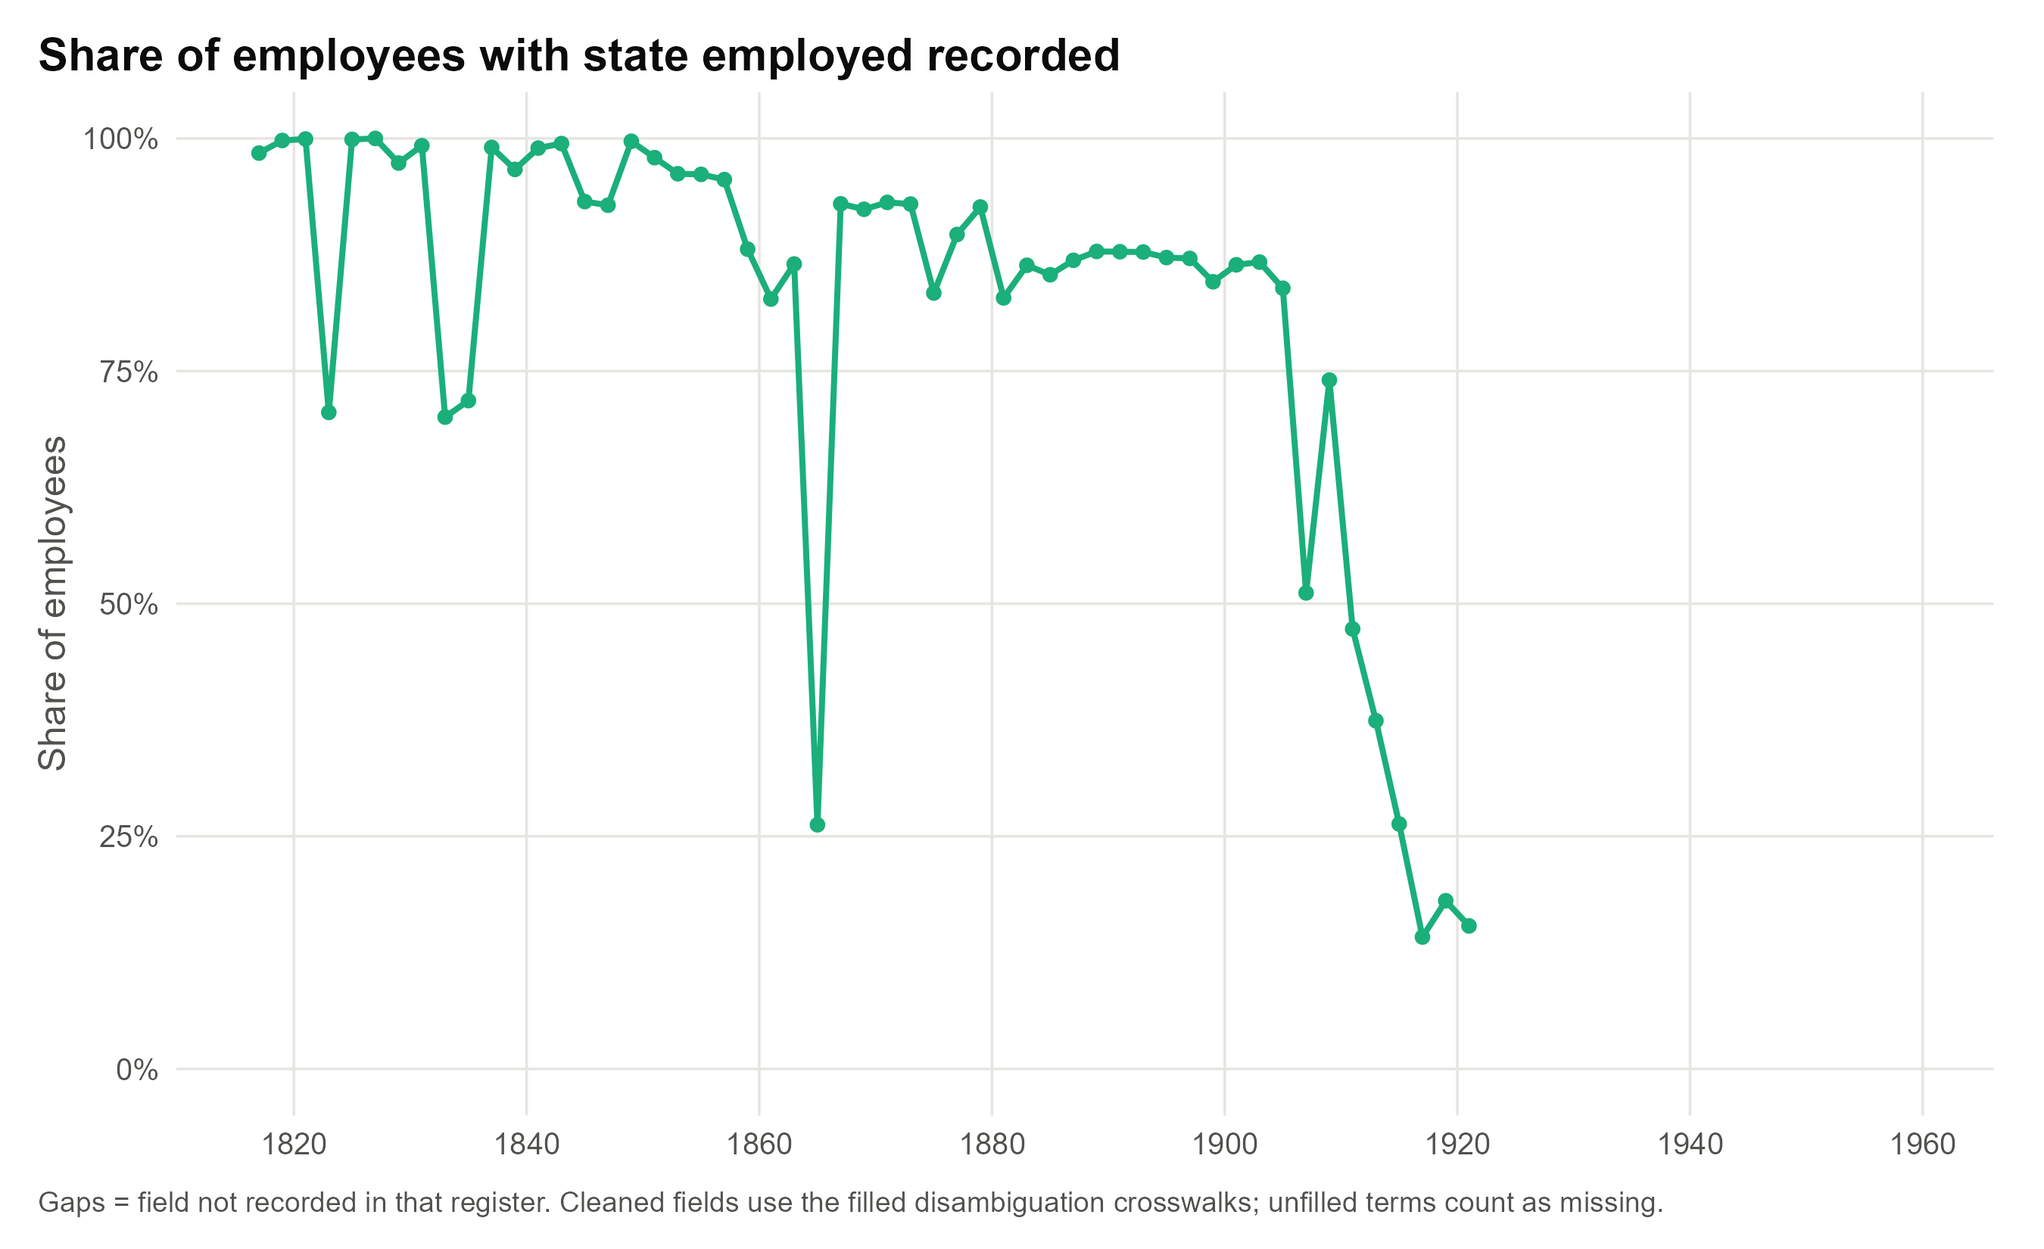
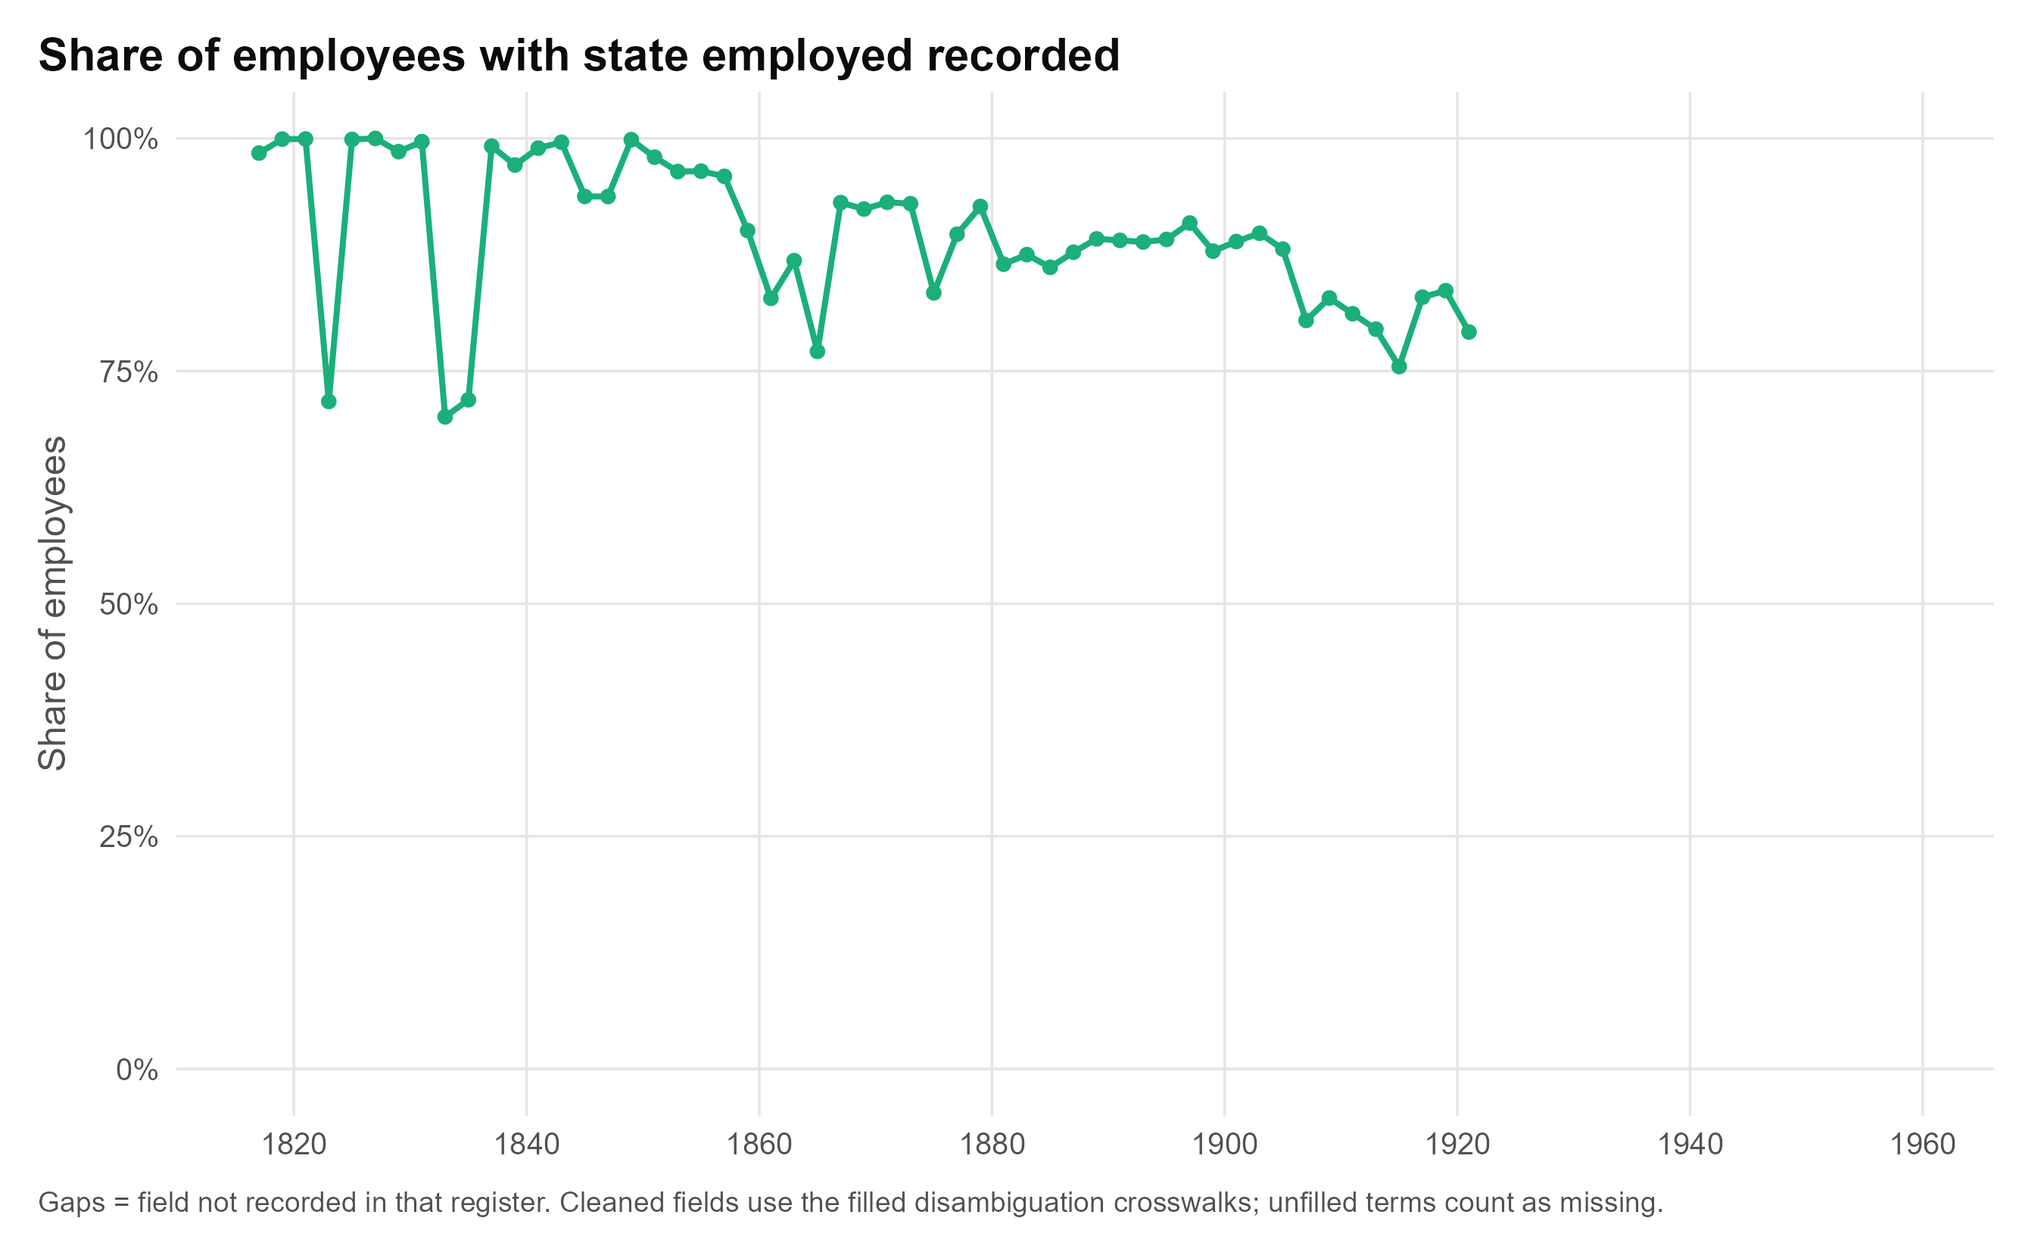
Update Individual phase: city-to-state crosswalk, pay-type and DC/War-Navy changes, new figures and heatmap

diff --git a/individual.html b/individual.html
@@ -44,7 +44,7 @@
     <div class="container">
         <section>
             <h2>Individual<span class="status-badge">In progress</span></h2>
-            <p>This phase turns the yearly Official Registers of the United States (1817&ndash;1959) into a single standardized file with one row per person-year. It harmonizes column headers across eras and cleans the fields that the registers abbreviate inconsistently: position, birth state, appointing state, employing state and congressional district. It also converts stated pay into a yearly figure. Abbreviations are resolved through crosswalks, which are filled from earlier hand codings, then by Claude, and checked against human coders. The scripts run in order, and each step reads the previous step&rsquo;s output.</p>
+            <p>This phase turns the yearly Official Registers of the United States (1817&ndash;1959) into a single standardized file with one row per person-year. It harmonizes column headers across eras and cleans the fields that the registers abbreviate inconsistently: position, birth state, appointing state, employing state (including filling it from the city where the register gives only a city) and congressional district. It also converts stated pay into a yearly figure. Abbreviations are resolved through crosswalks, which are filled from earlier hand codings, then by Claude, and checked against human coders. The scripts run in order, and each step reads the previous step&rsquo;s output.</p>
             <div class="btn-row" style="justify-content:center;">
                 <a class="btn" href="https://uchicago.box.com/s/r2gqoev8bho623cby2e0e7or6xvlfs0m" id="download-output" target="_blank" rel="noopener">Download final output (CSV)</a>
                 <a class="btn btn-outline" href="https://uchicago.box.com/s/t08v5jko8fby1tqbpaw12pawzwdkgsf3" id="download-folder" target="_blank" rel="noopener">Download full folder</a>
@@ -57,17 +57,17 @@
             <ol>
                 <li><strong>Bind all registers</strong> Reads the 73 yearly Official Register spreadsheets (1817&ndash;1959), standardizes their column headers across the three header eras, and binds them into one file. Exact repeats, and rows that differ only in where the person worked, are collapsed into one row, with <code>n_collapsed</code> recording how many original rows each stands for. Output: <code>all_registers_1817_1959.csv</code>.</li>
 
-                <li><strong>Generate empty crosswalks</strong> The registers abbreviate and spell the same thing in many ways, so the raw <code>position</code>, <code>cong_district</code> and the three state fields (<code>state_born</code>, <code>state_appointed</code>, <code>state_employed</code>) are turned into crosswalks: one row per unique raw string, most frequent first, with an empty <code>_clean</code> column. Positions are only abbreviated in 1907&ndash;1921, so that crosswalk has one row per term <em>and year</em>; the three state fields share one crosswalk.</li>
+                <li><strong>Generate empty crosswalks</strong> The registers abbreviate and spell the same thing in many ways, so the raw <code>position</code>, <code>cong_district</code> and the three state fields (<code>state_born</code>, <code>state_appointed</code>, <code>state_employed</code>) are turned into crosswalks: one row per unique raw string, most frequent first, with an empty <code>_clean</code> column. Positions are only abbreviated in 1907&ndash;1921, so that crosswalk has one row per term <em>and year</em>; the three state fields share one crosswalk. A fifth crosswalk maps <code>city_employed</code> to a work state for rows that list a city but no state (for example 6,575 rows in 1865). Each city carries context columns (departments, offices, and the states people there were appointed from or born in) to help resolve ambiguous names such as Springfield or Portland. Filled crosswalks are saved as separate <code>_filled.csv</code> files, and regenerating the blank ones never overwrites them.</li>
 
                 <li><strong>Fill crosswalks from hand codings</strong> Many of the abbreviated and otherwise unstandardized entries were decoded by Kevin Angell. His entries, which cover all of the most common position titles and locations, are added to the empty crosswalks.</li>
 
-                <li><strong>Test Claude crosswalk generation</strong> Before using Claude to fill the remaining entries, we test it against human coders. The script draws random samples of still-unfilled entries (50 states, 50 districts, 150 positions). Then, Jon Rogowski and Lucas Cain filled these samples, and their results are compared to Claude (Sonnet 5.5, medium). The script reads back each coder&rsquo;s filled sample, and computes inter-coder agreement (pairwise agreement, Cohen&rsquo;s &kappa;, and Krippendorff&rsquo;s &alpha;). Disagreements are hand-marked as substantive or trivial, and agreement is reported both ways. The high agreement rates, and plausible entries by the LLM in cases of disagreement, justify step 5.</li>
+                <li><strong>Test Claude crosswalk generation</strong> Before using Claude to fill the remaining entries, we test it against human coders. The script draws random samples of still-unfilled entries (50 states, 50 districts, 150 positions, 50 cities). Then, Jon Rogowski and Lucas Cain filled these samples, and their results are compared to Claude (Sonnet 5.5, medium). For the city sample only Lucas Cain and Claude are compared, as Jon did not fill it. The script reads back each coder&rsquo;s filled sample, and computes inter-coder agreement (pairwise agreement, Cohen&rsquo;s &kappa;, and Krippendorff&rsquo;s &alpha;). Disagreements are hand-marked as substantive or trivial, and agreement is reported both ways. The high agreement rates, and plausible entries by the LLM in cases of disagreement, justify step 5.</li>
 
-                <li><strong>Fill crosswalks (Claude)</strong> The prompt used to have Claude fill the remaining blank crosswalk entries: districts and states first, then positions in batches. Each entry is checked individually against the printed abbreviation lists in <code>Input/c. Abbreviations</code>, and uncertain entries are left blank for human review. Existing answers are never overwritten.</li>
+                <li><strong>Fill crosswalks (Claude)</strong> The prompt used to have Claude fill the remaining blank crosswalk entries: districts and states first, then positions in batches, then the city-to-state crosswalk (every city individually, with a confidence rating and a REVIEW flag on uncertain fills). Each entry is checked individually against the printed abbreviation lists in <code>Input/c. Abbreviations</code>, and uncertain entries are left blank for human review. Existing answers are never overwritten.</li>
 
-                <li><strong>Apply crosswalks and additional cleaning</strong> Applies the filled crosswalks to the master register to produce standardized state, district and position fields. Also corrects the shifted &ldquo;D C D C D C&rdquo; entries in the compact registers, blanks the 1881&ndash;1891 district column (which holds field-service headings, not congressional districts), and converts pay strings into a comparable yearly figure. Output: <code>all_registers_1817_1959_clean.csv</code>, which completes Phase 1.</li>
+                <li><strong>Apply crosswalks and additional cleaning</strong> Applies the filled crosswalks to the master register to produce standardized state, district and position fields. Where a row has a city but no raw state, the work state is filled from the city crosswalk, and a new flag <code>state_employed_from_city</code> marks those rows (raw columns are left as transcribed). A few misspellings in the hand fill (&ldquo;Phillipines&rdquo;, &ldquo;Kanas&rdquo;, &ldquo;Inidana&rdquo;) and a Pittsburg slip are corrected. Also corrects the shifted &ldquo;D C D C D C&rdquo; entries in the compact registers, blanks the 1881&ndash;1891 district column (which holds field-service headings, not congressional districts), and converts pay strings into a comparable yearly figure. Output: <code>all_registers_1817_1959_clean.csv</code>, which completes Phase 1.</li>
 
-                <li><strong>Descriptive</strong> Tabulates and plots coverage by year for each cleaned field, birthplace patterns, compensation in nominal and real dollars (using the Officer&ndash;Williamson price and wage series), and employment geography. Tables and figures are written to <code>Output/Tables</code> and <code>Output/Figures</code>.</li>
+                <li><strong>Descriptive</strong> Tabulates and plots coverage by year for each cleaned field, birthplace patterns, compensation in nominal and real dollars (using the Officer&ndash;Williamson price and wage series), and employment geography (including Washington, DC vs. elsewhere excluding the War and Navy departments). Pay types now separate &ldquo;See footnote&rdquo; entries, and early military ranks with no printed figure, from &ldquo;No amount&rdquo;. Tables and figures are written to <code>Output/Tables</code> and <code>Output/Figures</code>.</li>
             </ol>
         </section>
 
@@ -78,11 +78,11 @@
 
         <section>
             <h3>Inter-coder reliability</h3>
-            <p>Output of script 4: three coders (two human, one LLM) filled random samples of crosswalk entries (50 states, 50 districts, 150 positions). Agreement is shown for all differences and for substantive differences only, where each disagreement was hand-marked as substantive or trivial.</p>
+            <p>Output of script 4: three coders (two human, one LLM) filled random samples of crosswalk entries (50 states, 50 districts, 150 positions, 50 cities; two coders for cities). Agreement is shown for all differences and for substantive differences only, where each disagreement was hand-marked as substantive or trivial.</p>
             <div class="btn-row"><a class="btn btn-outline" href="https://uchicago.box.com/s/o37bc6v30ftxk0f0gr4dj826tig9ookl" target="_blank" rel="noopener">Download inter-coder disagreements (spreadsheet)</a></div>
-            <table class="data-table"><caption>Krippendorff's &alpha; across the three coders, detailed coding</caption><thead><tr><th>Field</th><th>Items</th><th>Coders</th><th>&alpha; (all differences)</th><th>&alpha; (substantive differences only)</th></tr></thead><tbody><tr><td>Congressional district</td><td>50</td><td>3</td><td>0.847</td><td>0.961</td></tr><tr><td>Position</td><td>150</td><td>3</td><td>0.621</td><td>0.897</td></tr><tr><td>State</td><td>50</td><td>3</td><td>0.574</td><td>0.682</td></tr></tbody></table>
-            <table class="data-table"><caption>Pairwise agreement, detailed coding</caption><thead><tr><th>Field</th><th>Coders</th><th>Pair type</th><th>Items compared</th><th>% agree</th><th>Cohen&rsquo;s &kappa;</th></tr></thead><tbody><tr><td>Congressional district</td><td>Claude &ndash; Jon</td><td>human-LLM</td><td>39</td><td>87.2</td><td>0.868</td></tr><tr><td>Congressional district</td><td>Claude &ndash; Luke</td><td>human-LLM</td><td>46</td><td>82.6</td><td>0.822</td></tr><tr><td>Congressional district</td><td>Jon &ndash; Luke</td><td>human-human</td><td>40</td><td>85</td><td>0.846</td></tr><tr><td>Position</td><td>Claude &ndash; Jon</td><td>human-LLM</td><td>137</td><td>60.6</td><td>0.604</td></tr><tr><td>Position</td><td>Claude &ndash; Luke</td><td>human-LLM</td><td>141</td><td>66.7</td><td>0.665</td></tr><tr><td>Position</td><td>Jon &ndash; Luke</td><td>human-human</td><td>135</td><td>61.5</td><td>0.613</td></tr><tr><td>State</td><td>Claude &ndash; Jon</td><td>human-LLM</td><td>26</td><td>61.5</td><td>0.603</td></tr><tr><td>State</td><td>Claude &ndash; Luke</td><td>human-LLM</td><td>30</td><td>56.7</td><td>0.556</td></tr><tr><td>State</td><td>Jon &ndash; Luke</td><td>human-human</td><td>32</td><td>62.5</td><td>0.615</td></tr></tbody></table>
-            <table class="data-table"><caption>Items each coder filled in (blank = uncertain or skipped)</caption><thead><tr><th>Field</th><th>Coder</th><th>Type</th><th>Items filled</th><th>% filled</th></tr></thead><tbody><tr><td>Congressional district</td><td>Claude</td><td>LLM</td><td>46 of 50</td><td>92</td></tr><tr><td>Congressional district</td><td>Jon</td><td>human</td><td>40 of 50</td><td>80</td></tr><tr><td>Congressional district</td><td>Luke</td><td>human</td><td>50 of 50</td><td>100</td></tr><tr><td>Position</td><td>Claude</td><td>LLM</td><td>146 of 150</td><td>97.3</td></tr><tr><td>Position</td><td>Jon</td><td>human</td><td>139 of 150</td><td>92.7</td></tr><tr><td>Position</td><td>Luke</td><td>human</td><td>142 of 150</td><td>94.7</td></tr><tr><td>State</td><td>Claude</td><td>LLM</td><td>31 of 50</td><td>62</td></tr><tr><td>State</td><td>Jon</td><td>human</td><td>32 of 50</td><td>64</td></tr><tr><td>State</td><td>Luke</td><td>human</td><td>38 of 50</td><td>76</td></tr></tbody></table>
+            <table class="data-table"><caption>Krippendorff's &alpha; across the three coders, detailed coding</caption><thead><tr><th>Field</th><th>Items</th><th>Coders</th><th>&alpha; (all differences)</th><th>&alpha; (substantive differences only)</th></tr></thead><tbody><tr><td>Congressional district</td><td>50</td><td>3</td><td>0.847</td><td>0.961</td></tr><tr><td>Position</td><td>150</td><td>3</td><td>0.621</td><td>0.897</td></tr><tr><td>State</td><td>50</td><td>3</td><td>0.574</td><td>0.682</td></tr><tr><td>City &rarr; work state</td><td>50</td><td>2</td><td>0.911</td><td>0.970</td></tr></tbody></table>
+            <table class="data-table"><caption>Pairwise agreement, detailed coding</caption><thead><tr><th>Field</th><th>Coders</th><th>Pair type</th><th>Items compared</th><th>% agree</th><th>Cohen&rsquo;s &kappa;</th></tr></thead><tbody><tr><td>Congressional district</td><td>Claude &ndash; Jon</td><td>human-LLM</td><td>39</td><td>87.2</td><td>0.868</td></tr><tr><td>Congressional district</td><td>Claude &ndash; Luke</td><td>human-LLM</td><td>46</td><td>82.6</td><td>0.822</td></tr><tr><td>Congressional district</td><td>Jon &ndash; Luke</td><td>human-human</td><td>40</td><td>85</td><td>0.846</td></tr><tr><td>Position</td><td>Claude &ndash; Jon</td><td>human-LLM</td><td>137</td><td>60.6</td><td>0.604</td></tr><tr><td>Position</td><td>Claude &ndash; Luke</td><td>human-LLM</td><td>141</td><td>66.7</td><td>0.665</td></tr><tr><td>Position</td><td>Jon &ndash; Luke</td><td>human-human</td><td>135</td><td>61.5</td><td>0.613</td></tr><tr><td>State</td><td>Claude &ndash; Jon</td><td>human-LLM</td><td>26</td><td>61.5</td><td>0.603</td></tr><tr><td>State</td><td>Claude &ndash; Luke</td><td>human-LLM</td><td>30</td><td>56.7</td><td>0.556</td></tr><tr><td>State</td><td>Jon &ndash; Luke</td><td>human-human</td><td>32</td><td>62.5</td><td>0.615</td></tr><tr><td>City &rarr; work state</td><td>Claude &ndash; Luke</td><td>human-LLM</td><td>35</td><td>91.4</td><td>0.910</td></tr></tbody></table>
+            <table class="data-table"><caption>Items each coder filled in (blank = uncertain or skipped)</caption><thead><tr><th>Field</th><th>Coder</th><th>Type</th><th>Items filled</th><th>% filled</th></tr></thead><tbody><tr><td>Congressional district</td><td>Claude</td><td>LLM</td><td>46 of 50</td><td>92</td></tr><tr><td>Congressional district</td><td>Jon</td><td>human</td><td>40 of 50</td><td>80</td></tr><tr><td>Congressional district</td><td>Luke</td><td>human</td><td>50 of 50</td><td>100</td></tr><tr><td>Position</td><td>Claude</td><td>LLM</td><td>146 of 150</td><td>97.3</td></tr><tr><td>Position</td><td>Jon</td><td>human</td><td>139 of 150</td><td>92.7</td></tr><tr><td>Position</td><td>Luke</td><td>human</td><td>142 of 150</td><td>94.7</td></tr><tr><td>State</td><td>Claude</td><td>LLM</td><td>31 of 50</td><td>62</td></tr><tr><td>State</td><td>Jon</td><td>human</td><td>32 of 50</td><td>64</td></tr><tr><td>State</td><td>Luke</td><td>human</td><td>38 of 50</td><td>76</td></tr><tr><td>City &rarr; work state</td><td>Claude</td><td>LLM</td><td>43 of 50</td><td>86</td></tr><tr><td>City &rarr; work state</td><td>Jon</td><td>human</td><td>0 of 50</td><td>0</td></tr><tr><td>City &rarr; work state</td><td>Luke</td><td>human</td><td>36 of 50</td><td>72</td></tr></tbody></table>
             <div class="figure-grid">
                 <figure><a href="images/individual/intercoder_agreement.png" target="_blank"><img src="images/individual/intercoder_agreement.png" alt="Pairwise inter-coder agreement" loading="lazy"></a><figcaption>Pairwise inter-coder agreement</figcaption></figure>
             </div>
@@ -94,6 +94,7 @@
 <h4>Coverage</h4>
             <div class="figure-grid">
                 <figure><a href="images/individual/employees_by_year.png" target="_blank"><img src="images/individual/employees_by_year.png" alt="Number of employees listed in each register" loading="lazy"></a><figcaption>Number of employees listed in each register</figcaption></figure>
+<figure><a href="images/individual/coverage_by_year.png" target="_blank"><img src="images/individual/coverage_by_year.png" alt="Share of employees with each field recorded" loading="lazy"></a><figcaption>Share of employees with each field recorded (all fields)</figcaption></figure>
 <figure><a href="images/individual/coverage_position_by_year.png" target="_blank"><img src="images/individual/coverage_position_by_year.png" alt="Position recorded" loading="lazy"></a><figcaption>Position recorded</figcaption></figure>
                 <figure><a href="images/individual/coverage_state_born_by_year.png" target="_blank"><img src="images/individual/coverage_state_born_by_year.png" alt="State of birth recorded" loading="lazy"></a><figcaption>State of birth recorded</figcaption></figure>
                 <figure><a href="images/individual/coverage_state_appointed_by_year.png" target="_blank"><img src="images/individual/coverage_state_appointed_by_year.png" alt="State of appointment recorded" loading="lazy"></a><figcaption>State of appointment recorded</figcaption></figure>
@@ -120,6 +121,7 @@
             </div>
             <h4>Geography</h4>
             <div class="figure-grid">
+                <figure><a href="images/individual/state_employed_heatmap.gif" target="_blank"><img src="images/individual/state_employed_heatmap.gif" alt="Share of employees working in each state, by register year (animated)" loading="lazy"></a><figcaption>Share of employees working in each state, by register year (animated)</figcaption></figure>
                 <figure><a href="images/individual/employed_dc_vs_elsewhere.png" target="_blank"><img src="images/individual/employed_dc_vs_elsewhere.png" alt="Where employees worked: Washington, DC vs. elsewhere" loading="lazy"></a><figcaption>Where employees worked: Washington, DC vs. elsewhere</figcaption></figure>
             </div>
         </section>
@@ -139,7 +141,7 @@
     <footer>
         <div class="container">
             <p>&copy; Administrative Origins Project</p>
-            <p>Last updated: [Month Year]</p>
+            <p>Last updated: November 2026</p>
         </div>
     </footer>
 </body>
